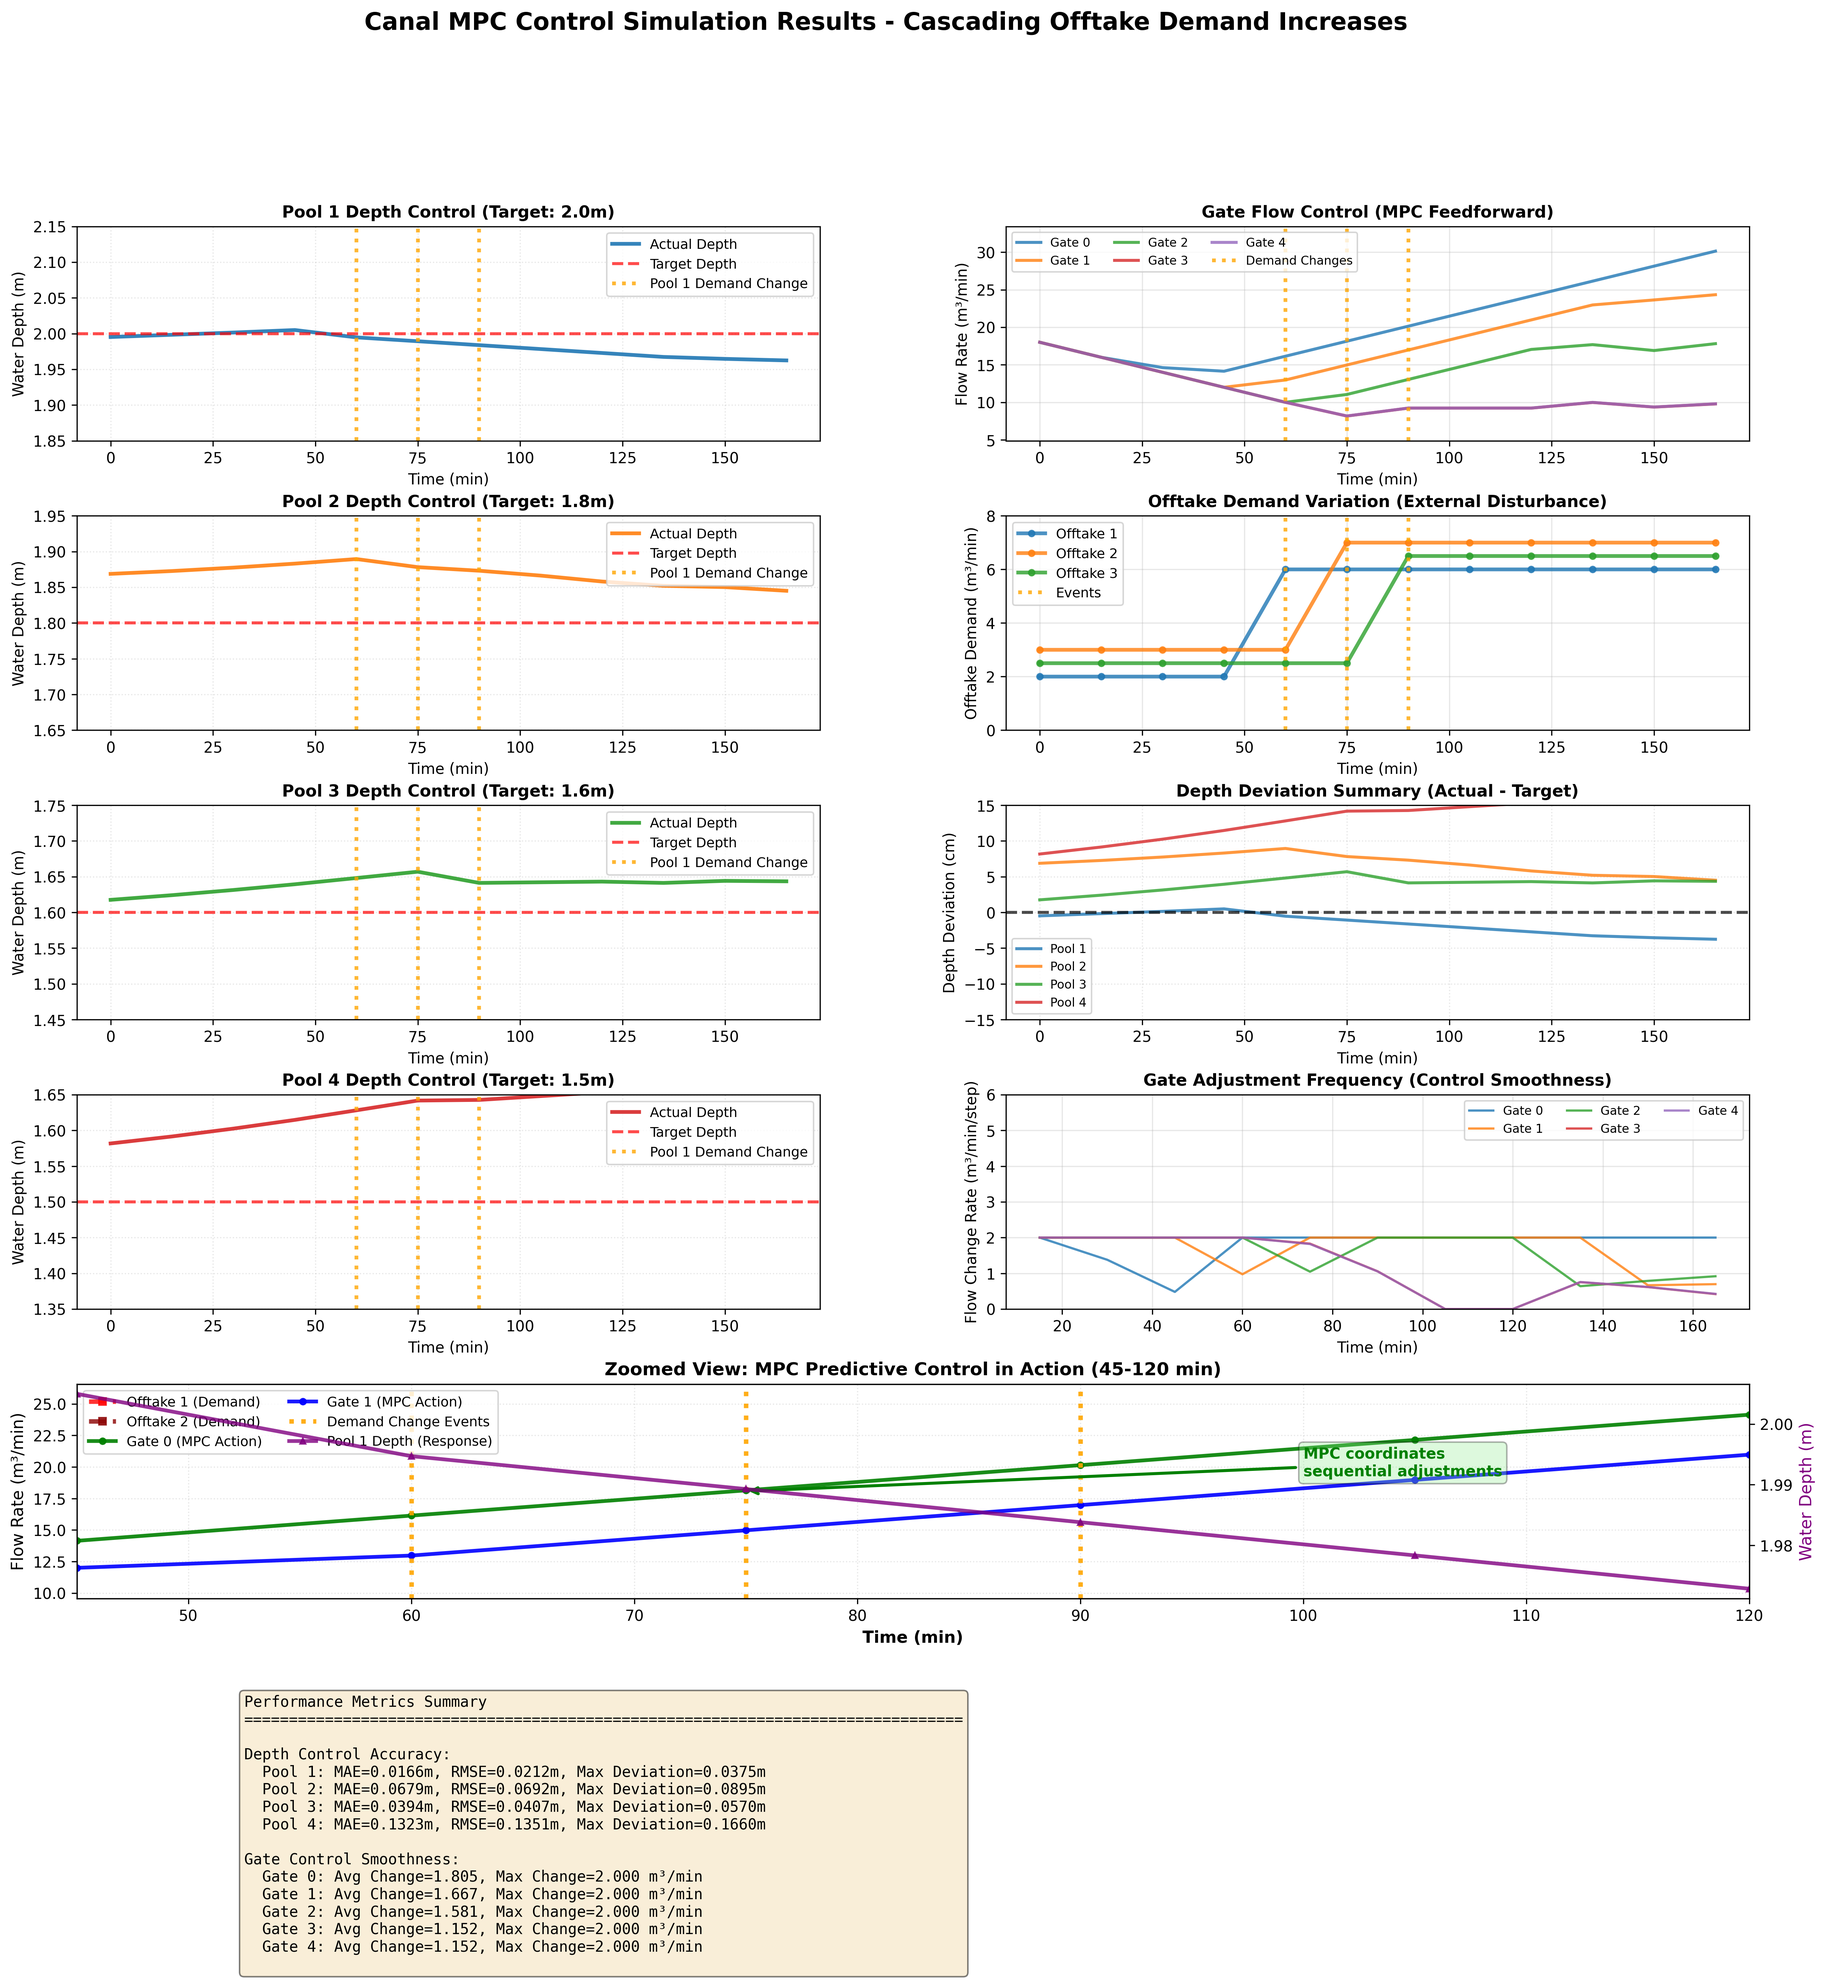
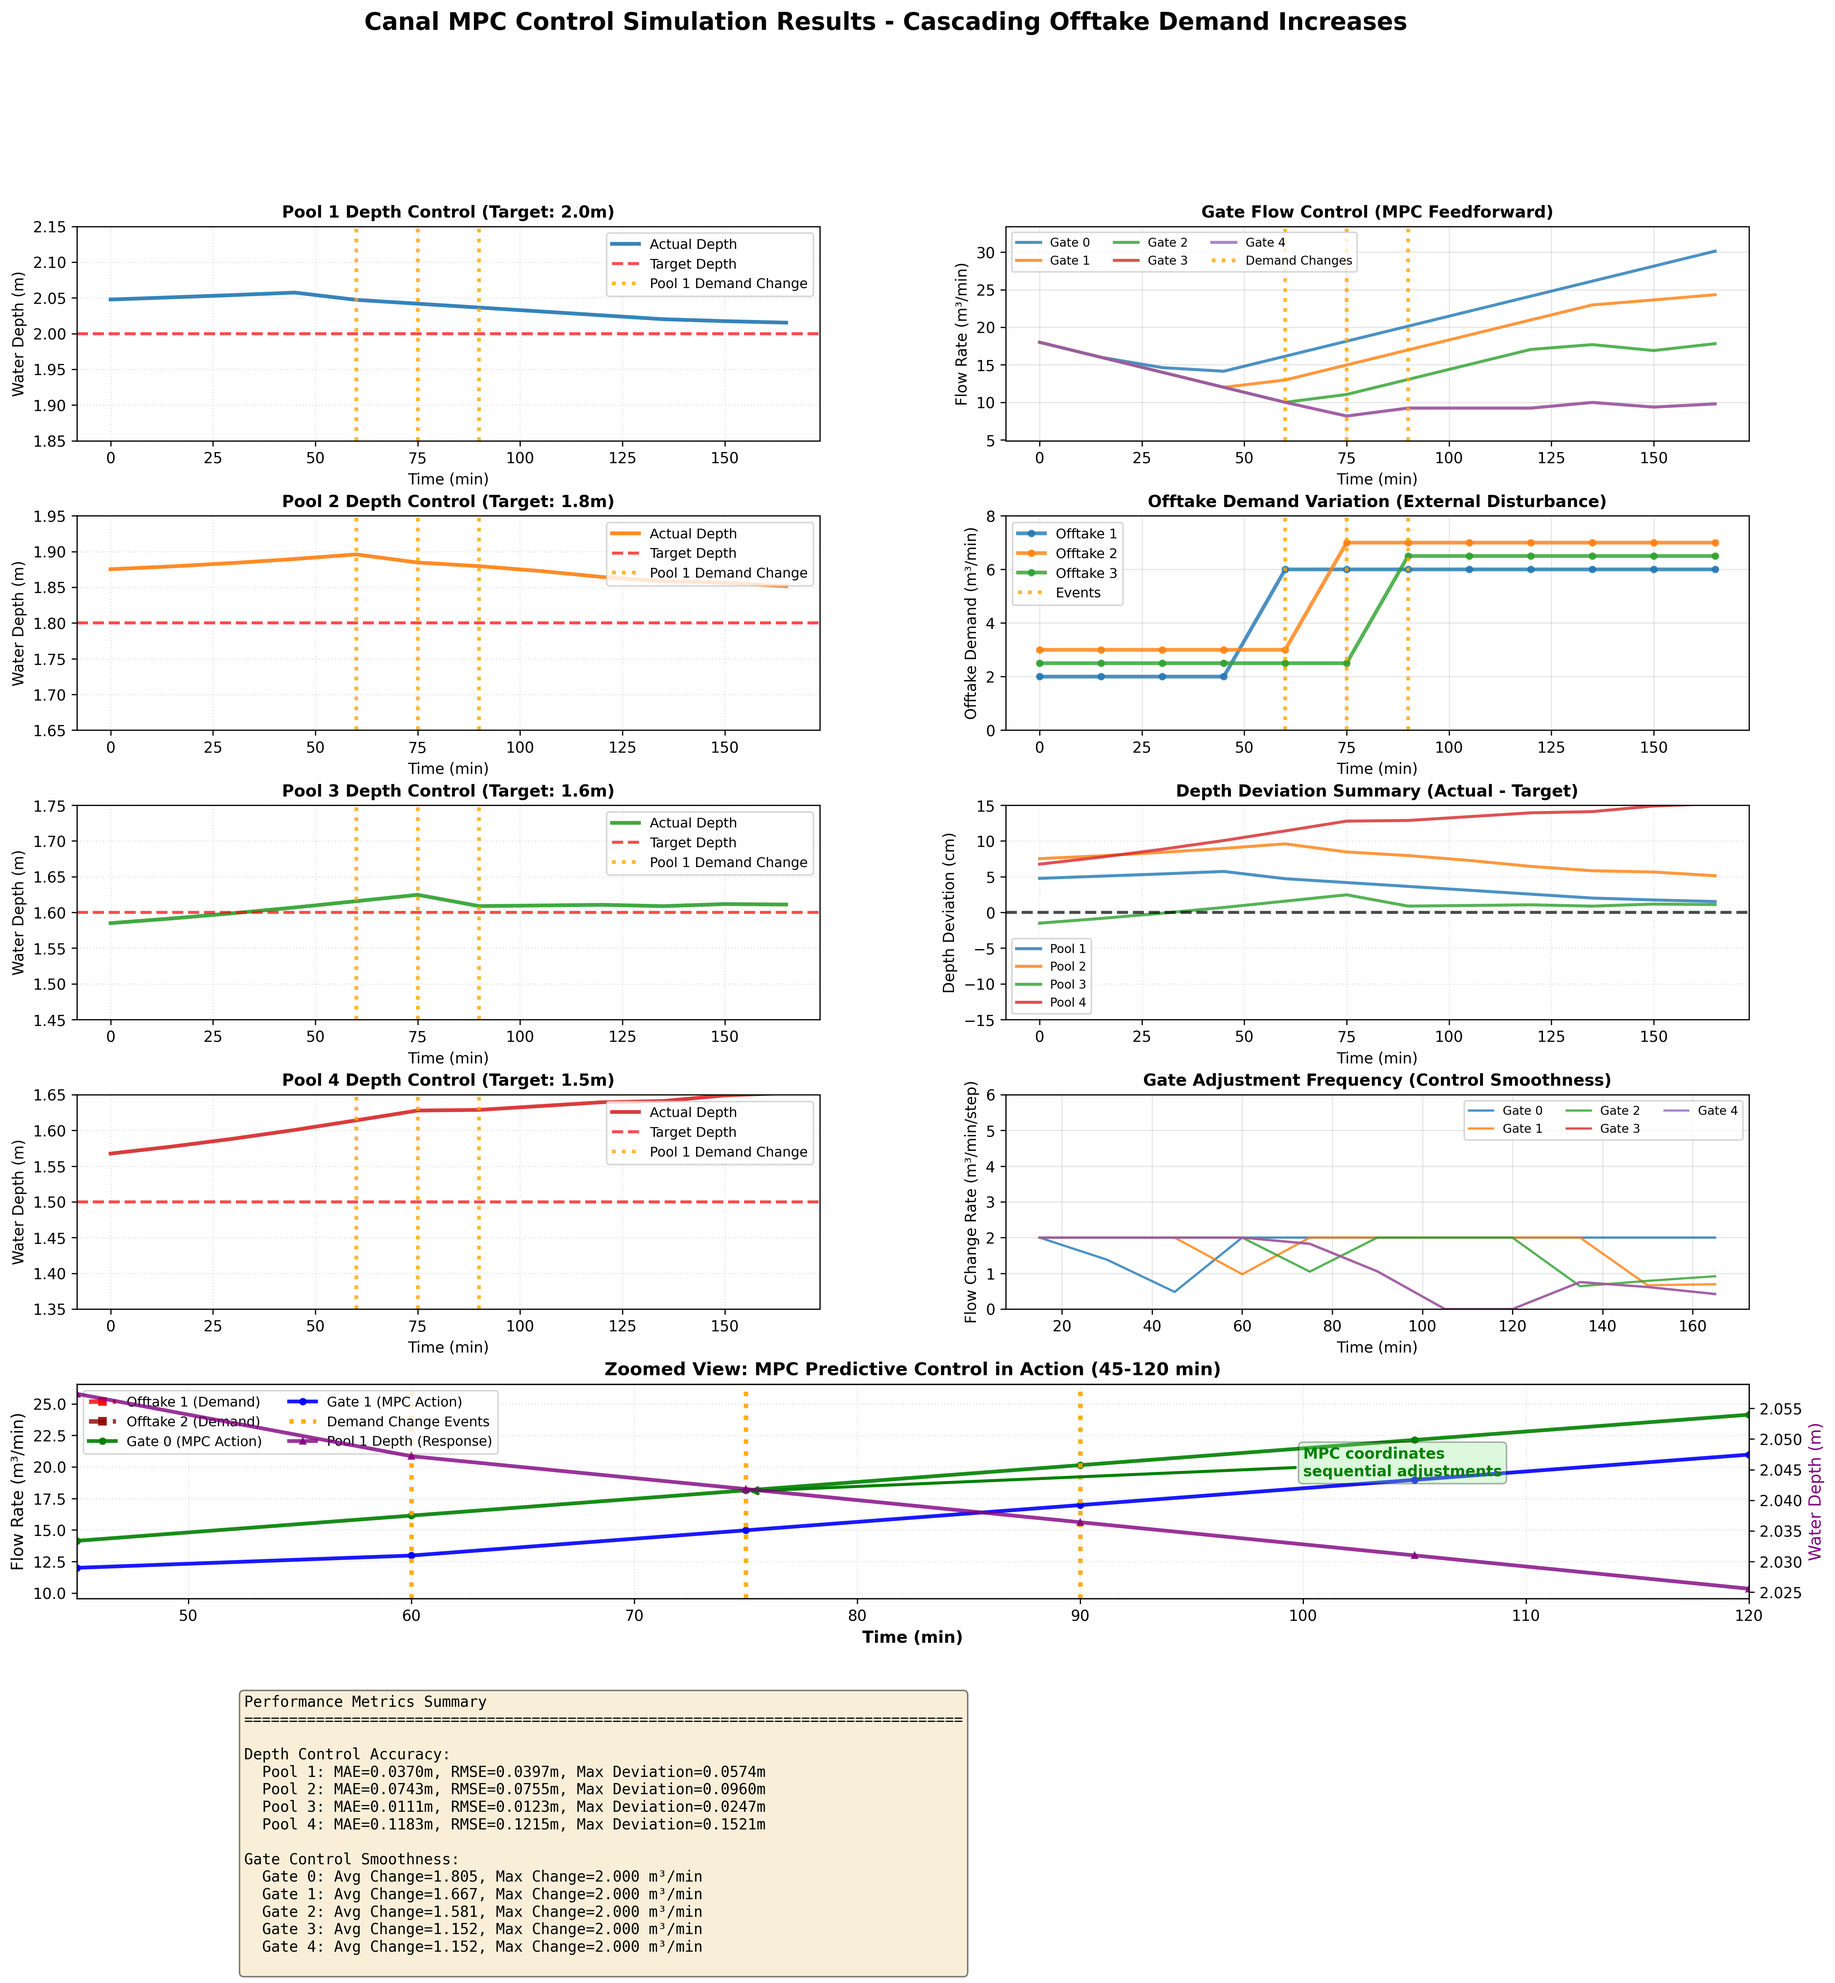
Add water usage change chart to MPC animation with right y-axis
- Modified create_mpc_animation() to include twin y-axis for water usage change
- Water usage change is plotted in purple on the right y-axis
- Shows offtake demand variations more clearly due to independent scaling
- Updated subplot titles to reflect the new chart
- Combined legends from both left and right axes

🤖 Generated with [Claude Code](https://claude.com/claude-code)

diff --git a/examples/case5_canal_mpc_control/canal_mpc_idz.py b/examples/case5_canal_mpc_control/canal_mpc_idz.py
@@ -773,13 +773,16 @@ def create_mpc_animation(df, scenario, output_dir, canal):
 
     # Create subplots: 4 rows (one per pool), 2 columns (depth, flow)
     axes_depth = []  # Left column: depth plots
-    axes_flow = []   # Right column: flow plots
+    axes_flow = []   # Right column: flow plots (left y-axis)
+    axes_water_change = []  # Right column: water usage change plots (right y-axis)
 
     for i in range(4):
         ax_d = fig.add_subplot(gs[i, 0])  # Depth subplot
         ax_f = fig.add_subplot(gs[i, 1])  # Flow subplot
+        ax_wc = ax_f.twinx()  # Water usage change (right y-axis)
         axes_depth.append(ax_d)
         axes_flow.append(ax_f)
+        axes_water_change.append(ax_wc)
 
     # Update function (called for each frame)
     def update(frame):
@@ -787,7 +790,7 @@ def create_mpc_animation(df, scenario, output_dir, canal):
         current_time = times[current_idx]
 
         # Clear all subplots
-        for ax in axes_depth + axes_flow:
+        for ax in axes_depth + axes_flow + axes_water_change:
             ax.clear()
 
         # Colors for each pool
@@ -830,6 +833,7 @@ def create_mpc_animation(df, scenario, output_dir, canal):
 
             # === Right subplot: Flow rates ===
             ax_f = axes_flow[i]
+            ax_wc = axes_water_change[i]
 
             # Upstream gate (inflow)
             ax_f.plot(
@@ -851,7 +855,7 @@ def create_mpc_animation(df, scenario, output_dir, canal):
                 alpha=0.8
             )
 
-            # Offtake demand (if exists)
+            # Offtake demand (if exists) - plot on left axis
             if pool_idx in [1, 2, 3]:
                 ax_f.plot(
                     times[:current_idx+1],
@@ -863,6 +867,29 @@ def create_mpc_animation(df, scenario, output_dir, canal):
                     alpha=0.8
                 )
 
+                # Calculate and plot water usage change on right axis
+                if current_idx > 0:
+                    offtake_change = np.diff(df[f"offtake{pool_idx}"][:current_idx+1])
+                    ax_wc.plot(
+                        times[1:current_idx+1],
+                        offtake_change,
+                        color='purple',
+                        linewidth=2,
+                        label=f"Usage Change",
+                        alpha=0.7,
+                        marker='o',
+                        markersize=3
+                    )
+                    ax_wc.axhline(y=0, color='gray', linestyle=':', linewidth=1, alpha=0.5)
+                    ax_wc.set_ylabel("Water Usage Change (m³/min/step)", fontsize=9, color='purple')
+                    ax_wc.tick_params(axis='y', labelcolor='purple')
+
+                    # Set dynamic y-axis range for water usage change
+                    if len(offtake_change) > 0:
+                        change_max = max(abs(offtake_change.min()), abs(offtake_change.max()))
+                        if change_max > 0:
+                            ax_wc.set_ylim(-change_max * 1.2, change_max * 1.2)
+
             # Current time marker
             ax_f.axvline(x=current_time, color='green', linestyle='-', linewidth=2, alpha=0.5)
 
@@ -870,9 +897,13 @@ def create_mpc_animation(df, scenario, output_dir, canal):
             ax_f.set_ylim(flow_ranges[i][0], flow_ranges[i][1])
             ax_f.set_xlim(0, times[-1])
             ax_f.set_ylabel("Flow (m³/min)", fontsize=10)
-            ax_f.set_title(f"Pool {pool_idx} - Flow Rates", fontsize=11, fontweight='bold')
+            ax_f.set_title(f"Pool {pool_idx} - Flow Rates & Water Usage Change", fontsize=11, fontweight='bold')
             ax_f.grid(True, alpha=0.3)
-            ax_f.legend(loc='upper right', fontsize=8)
+
+            # Combine legends from both axes
+            lines1, labels1 = ax_f.get_legend_handles_labels()
+            lines2, labels2 = ax_wc.get_legend_handles_labels()
+            ax_f.legend(lines1 + lines2, labels1 + labels2, loc='upper right', fontsize=8)
 
             if i == 3:  # Only show x-label on bottom plot
                 ax_f.set_xlabel("Time (min)", fontsize=10)

diff --git a/examples/case5_canal_mpc_control/results/REPORT_Cascading_Offtake_Demand_Increases.md b/examples/case5_canal_mpc_control/results/REPORT_Cascading_Offtake_Demand_Increases.md
@@ -44,27 +44,27 @@
 
 
 **Pool 1** (目标水深: 2.0m) ✅ 优秀
-- 平均绝对误差(MAE): 0.0166 m (0.83%)
-- 均方根误差(RMSE): 0.0212 m
-- 最大偏差: 0.0375 m
+- 平均绝对误差(MAE): 0.0370 m (1.85%)
+- 均方根误差(RMSE): 0.0397 m
+- 最大偏差: 0.0574 m
 
 
 **Pool 2** (目标水深: 1.8m) ⚠ 良好
-- 平均绝对误差(MAE): 0.0679 m (3.77%)
-- 均方根误差(RMSE): 0.0692 m
-- 最大偏差: 0.0895 m
+- 平均绝对误差(MAE): 0.0743 m (4.13%)
+- 均方根误差(RMSE): 0.0755 m
+- 最大偏差: 0.0960 m
 
 
 **Pool 3** (目标水深: 1.6m) ✅ 优秀
-- 平均绝对误差(MAE): 0.0394 m (2.47%)
-- 均方根误差(RMSE): 0.0407 m
-- 最大偏差: 0.0570 m
+- 平均绝对误差(MAE): 0.0111 m (0.69%)
+- 均方根误差(RMSE): 0.0123 m
+- 最大偏差: 0.0247 m
 
 
 **Pool 4** (目标水深: 1.5m) ❌ 需改进
-- 平均绝对误差(MAE): 0.1323 m (8.82%)
-- 均方根误差(RMSE): 0.1351 m
-- 最大偏差: 0.1660 m
+- 平均绝对误差(MAE): 0.1183 m (7.89%)
+- 均方根误差(RMSE): 0.1215 m
+- 最大偏差: 0.1521 m
 
 
 ### 3.2 控制平滑度
@@ -100,8 +100,8 @@
 
 ### 4.1 整体性能
 
-- **水深控制精度**: 平均MAE = 0.0641 m
-- **控制平滑度**: 平均变化率 = 1.471 m³/min/步
+- **水深控制精度**: 平均MAE = 0.0602 m
+- **控制平滑度**: 平均变化率 = 1.472 m³/min/步
 
 ### 4.2 MPC效果分析
 
